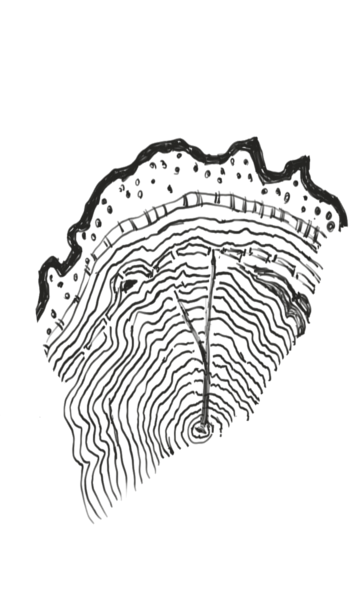
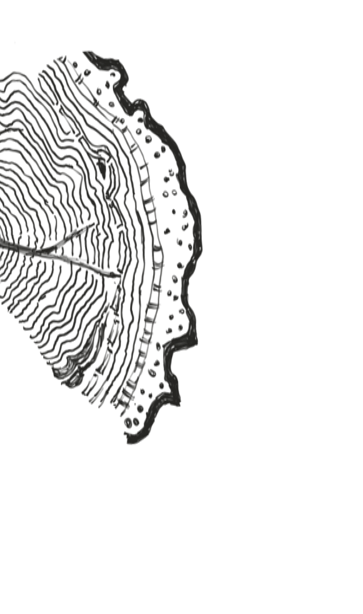
rotate small

Changed region(s): [[0.0, 0.0619, 0.9697, 0.8664]]

diff --git a/myapo.css b/myapo.css
@@ -25,7 +25,7 @@ body {
     color: black;
     font: 75% georgia, sans-serif;
     line-height: 1.88889;
-    background: url("https://devinbayly.github.io/gitbranches.jpg") no-repeat center right fixed;
+    background: url("https://devinbayly.github.io/tree_ringsmall.png")no-repeat center left fixed,url("https://devinbayly.github.io/gitbranches.jpg") no-repeat center right fixed;
 }
 p { 
 	margin-top: 0; 
